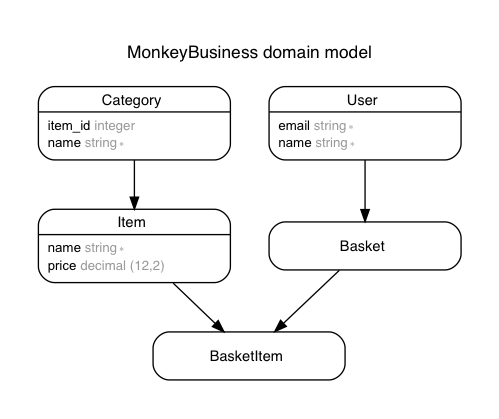
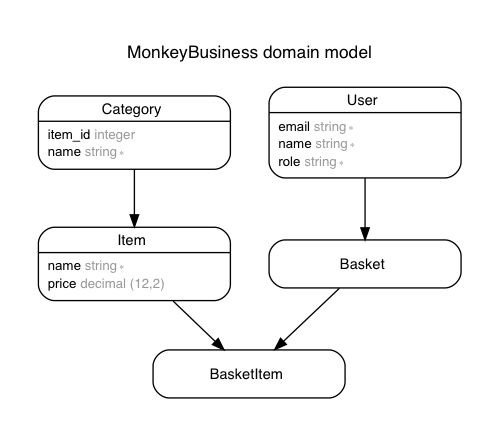
Add role to user (#5)
* Add role to user.

* Update erd diagram.

diff --git a/spec/models/user_spec.rb b/spec/models/user_spec.rb
@@ -1,0 +1,27 @@
+require "rails_helper"
+
+RSpec.describe User, type: :model do
+  describe "#admin?" do
+    it "returns true when user has role admin" do
+      user = create(:user, role: "admin")
+      expect(user.admin?).to eq true
+    end
+
+    it "returns false when user doesn't have role admin" do
+      user = create(:user, role: "customer")
+      expect(user.admin?).to eq false
+    end
+  end
+
+  describe "#customer?" do
+    it "returns true when user has role customer" do
+      user = create(:user, role: "customer")
+      expect(user.customer?).to eq true
+    end
+
+    it "returns false when user doesn't have role customer" do
+      user = create(:user, role: "admin")
+      expect(user.customer?).to eq false
+    end
+  end
+end

diff --git a/db/schema.rb b/db/schema.rb
@@ -10,7 +10,7 @@
 #
 # It's strongly recommended that you check this file into your version control system.
 
-ActiveRecord::Schema.define(version: 20171222140812) do
+ActiveRecord::Schema.define(version: 20171222145321) do
 
   create_table "basket_items", force: :cascade do |t|
     t.integer "basket_id", null: false
@@ -50,6 +50,7 @@ ActiveRecord::Schema.define(version: 20171222140812) do
     t.string "email"
     t.datetime "created_at", null: false
     t.datetime "updated_at", null: false
+    t.string "role", default: "customer", null: false
   end
 
 end

diff --git a/app/models/user.rb b/app/models/user.rb
@@ -1,4 +1,13 @@
 class User < ApplicationRecord
   validates :name, presence: true
   validates :email, presence: true
+  validates :role, presence: true
+
+  def admin?
+    role == "admin"
+  end
+
+  def customer?
+    role == "customer"
+  end
 end

diff --git a/spec/factories/user.rb b/spec/factories/user.rb
@@ -2,5 +2,6 @@ FactoryBot.define do
   factory :user do
     sequence(:name) { |n| "User #{n}" }
     sequence(:email) { |n| "user-#{n}@example.com" }
+    role "customer"
   end
 end

diff --git a/spec/support/factory_bot.rb b/spec/support/factory_bot.rb
@@ -2,3 +2,5 @@
 RSpec.configure do |config|
   config.include FactoryBot::Syntax::Methods
 end
+
+Dir[Rails.root.join("spec", "factories", "*.rb")].each { |file| require file }

diff --git a/db/migrate/20171222145321_add_role_to_users.rb b/db/migrate/20171222145321_add_role_to_users.rb
@@ -1,0 +1,5 @@
+class AddRoleToUsers < ActiveRecord::Migration[5.1]
+  def change
+    add_column :users, :role, :string, null: false, default: "customer"
+  end
+end
